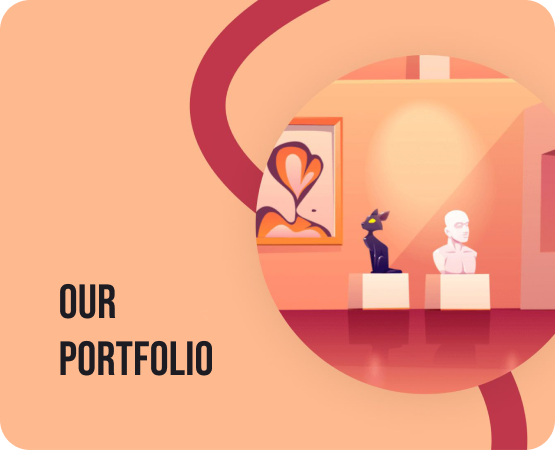
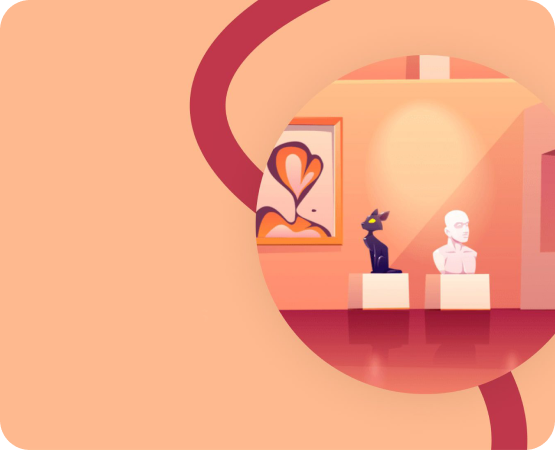
update

Changed region(s): [[0.0917, 0.7467, 0.3975, 0.84], [0.0917, 0.6222, 0.214, 0.7156]]

diff --git a/index.html b/index.html
@@ -98,11 +98,11 @@
               <li><a class="scroll-to active" href="./index.html">HOME</a></li>
               <li><a href="#about">ABOUT</a></li>
               <li><a href="#service">SERVICE</a></li>
-              <li><a href="#">PRICE TABLE</a></li>
-              <li><a href="#">SKILLS</a></li>
-              <li><a href="#">PORTFOLIO</a></li>
-              <li><a href="#">TESTIMONIAL</a></li>
-              <li><a href="#">CONTACT</a></li>
+              <li><a href="#price">PRICE TABLE</a></li>
+              <li><a href="#skill">SKILLS</a></li>
+              <li><a href="#portfolio">PORTFOLIO</a></li>
+              <li><a href="#testimonial">TESTIMONIAL</a></li>
+              <li><a href="#contact">CONTACT</a></li>
             </ul>
 
             <div class="menu-right">
@@ -134,7 +134,7 @@
     </div>
   </div>
   <!-- home -->
-  <section>
+  <section id="content">
     <div class="tf-container">
       <div class="wrapper wrap-home">
         <!-- <div class="grid-container">
@@ -258,15 +258,35 @@
                         <a href="#"><img class="img-1" src="images/home/img-1.png" alt="image"></a>
                       </li>
                       <li>
-                        <a href="#about"><img class="img-2" src="images/home/img-2.png" alt="image"></a>
+                        <a href="#about" class="img-about"><img src="images/home/img-2.png" alt="image"> <h4>About Us</h4></a>
                       </li> 
                     </ul>
                   </div>
-                  <div class="img-content"></div>
-                  <div class="img-bottom"></div>
+                  <div class="img-content">
+                    <ul class="menu-content box-image">
+                      <li>
+                        <a href="#portfolio" class="img-portfolio"><img src="images/home/img-3.png" alt="image"><h4><p>OUR</p><p>Portfolio</p></h4></a>
+                      </li>
+                      <li>
+                        <ul class="icon-social">
+                          <li><a href="#" class="img-1" ><img src="images/home/img-5.png" alt="image"> </a> </li>
+                          <li><a href="#" ><img src="images/home/img-4.png" alt="image"> </a> </li>
+                          <li><a href="#" ><img src="images/home/img-6.png" alt="image"> </a> </li>
+                        </ul>
+                      </li> 
+                    </ul>
+                  </div>
+                  <div class="img-bottom">
+                    <a href="#"><img src="images/home/img-11.png" alt="image"></a>
+                    <a href="#"><img src="images/home/img-10.png" alt="image"></a>
+                  </div>
                 </div>
                 <div class="inner-right">
-
+                  <ul class="menu-content box-image">
+                    <li class="top"><a href="#"><img src="images/home/img-7.png" alt="image"></a></li>
+                    <li class="inner"><a href="#"><img src="images/home/img-8.png" alt="image"><h4><p>OUR</p><p>BEST SKILL</p></h4></a></li>
+                    <li class="bottom"><a href="#"><img src="images/home/img-9.png" alt="image"><h4>news BLOG</h4></a></li>
+                  </ul>   
                 </div>
               </div>
             </div>
@@ -440,7 +460,7 @@
   </section>
   <!-- end -->
   <!-- Footer -->
-  <footer>
+  <footer id="footer">
     <div class="tf-container">
       <div class="footer">
         <img class="logo-footer" src="images/logo-footer.jpg" alt="images">
@@ -452,6 +472,7 @@
   <script src="javascript/jquery.min.js"></script>
   <script src="javascript/bootstrap.min.js"></script>
   <script src="javascript/countto.js"></script>
+  <!-- <script src="javascript/test.js"></script> -->
   <script src="javascript/main.js"></script>
 
 </body>

diff --git a/stylesheets/shortcodes.css b/stylesheets/shortcodes.css
@@ -1489,7 +1489,7 @@ table.content p {
 }
 
 .home-box .box-title {
-    margin-bottom: 60px;
+    margin-bottom: 125px;
 }
 
 .home-box .box-title .title {
@@ -1788,13 +1788,139 @@ table.content p {
     height: 50px;
 }
 
-.home-box .img-top .box-image {
+.home-box .content {
     display: flex;
     gap: 30px;
 }
 
-.home-box .img-top .box-image a {
+.home-box .inner-left .img-top .box-image {
+    display: flex;
+    align-items: flex-end;
+    gap: 30px;
+}
+
+.home-box .inner-left .img-top .box-image a {
     display: inline-block;
 }
 
-.home-box .img-top .box-image .img-1 {}
+.home-box .inner-left .img-top .box-image .img-1 {
+    width: 130px;
+}
+
+.home-box .inner-left .img-top .box-image .img-about img {
+    width: 300px;
+    height: 300px;
+}
+
+.home-box .inner-left .img-top .box-image .img-about,
+.home-box .inner-left .img-content .box-image .img-portfolio {
+    position: relative;
+    display: inline-block;
+}
+
+.home-box .inner-left .img-top .box-image .img-about h4 {
+    position: absolute;
+    margin-top: -60px;
+    margin-left: 60px;
+    color: var(--title-light);
+    text-align: center;
+    letter-spacing: 0.6em;
+    font-size: 24px;
+    line-height: 29px;
+}
+
+.home-box .inner-left .img-content {
+    margin: 30px 0px;
+}
+
+.home-box .inner-left .img-content .box-image .img-portfolio img {
+    width: 360px;
+    height: 300px;
+}
+
+.home-box .inner-left .img-content .box-image .img-portfolio h4 {
+    position: absolute;
+    bottom: 30px;
+    left: 30px;
+
+}
+
+.home-box .inner-left .img-content .box-image .img-portfolio h4 p,
+.home-box .inner-right .box-image .inner h4 p {
+    font-size: 32px;
+    line-height: 38px;
+    color: var(--title-light);
+}
+
+.home-box .inner-left .img-content .box-image {
+    display: flex;
+    gap: 30px;
+
+}
+
+.home-box .inner-left .img-content .icon-social img {
+    width: 70px;
+    height: 70px;
+}
+
+.home-box .inner-left .img-content .icon-social .img-1 img {
+    max-width: 70px;
+    height: 100px;
+}
+
+.home-box .inner-left .img-content .icon-social li:not(:last-child) {
+    margin-bottom: 30px;
+}
+
+.home-box .inner-left .img-bottom a:first-child {
+    margin-right: 30px;
+}
+
+.home-box .inner-left .img-bottom img {
+    width: 212px;
+    height: 130px;
+}
+
+.home-box .inner-right .box-image {
+    display: flex;
+    flex-direction: column;
+    row-gap: 30px;
+}
+
+.home-box .inner-right .box-image .top img {
+    width: 220px;
+    height: 126px;
+}
+
+.home-box .inner-right .box-image .inner,
+.home-box .inner-right .box-image .bottom {
+    position: relative;
+}
+
+.home-box .inner-right .box-image .inner h4 {
+    position: absolute;
+    top: 45%;
+    left: 30%;
+}
+
+.home-box .inner-right .box-image .inner h4 p:first-child {
+    text-align: center;
+}
+
+.home-box .inner-right .box-image .inner img {
+    width: 220px;
+    height: 235px;
+}
+
+.home-box .inner-right .box-image .bottom img {
+    width: 220px;
+    height: 370px;
+}
+
+.home-box .inner-right .box-image .bottom h4 {
+    position: absolute;
+    bottom: 30px;
+    left: 30px;
+    font-size: 24px;
+    line-height: 29px;
+}

diff --git a/about-us.html b/about-us.html
@@ -90,11 +90,11 @@
               <li><a class="scroll-to active" href="./index.html">HOME</a></li>
               <li><a href="#about">ABOUT</a></li>
               <li><a href="#service">SERVICE</a></li>
-              <li><a href="#">PRICE TABLE</a></li>
-              <li><a href="#">SKILLS</a></li>
-              <li><a href="#">PORTFOLIO</a></li>
+              <li><a href="#price">PRICE TABLE</a></li>
+              <li><a href="#skill">SKILLS</a></li>
+              <li><a href="#portfolio">PORTFOLIO</a></li>
               <li><a href="#">TESTIMONIAL</a></li>
-              <li><a href="#">CONTACT</a></li>
+              <li><a href="#contact">CONTACT</a></li>
             </ul>
 
             <div class="menu-right">
@@ -126,7 +126,7 @@
     </div>
   </div>
 
-  <section>
+  <section id="content">
     <div class="tf-container">
       <div class="wrapper">
         <div class="group-4-8">

diff --git a/javascript/test.js b/javascript/test.js
@@ -4,5 +4,9 @@ var headerHeight = $("#header").height();
 console.log(headerHeight);
 var footerHeight = $("#footer").height();
 console.log(footerHeight);
-var contentHeight = H - (headerHeight + footerHeight);
+var contentHeight = document.getElementById("content");
 console.log(contentHeight);
+var heightTest = H - (headerHeight + footerHeight);
+contentHeight.style.height = heightTest + "px";
+
+console.log("height", heightTest);
